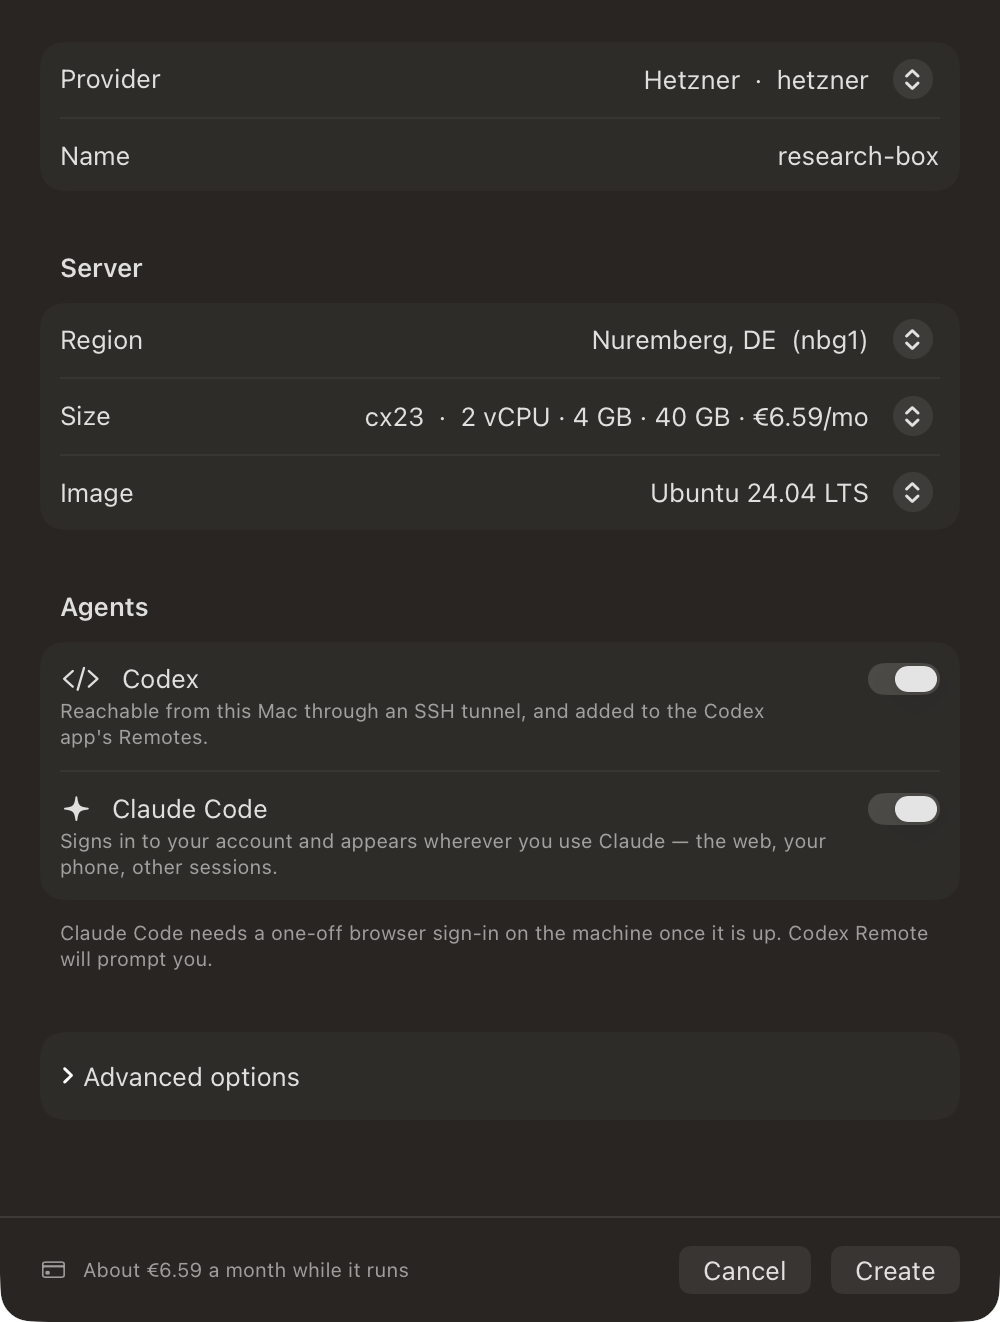
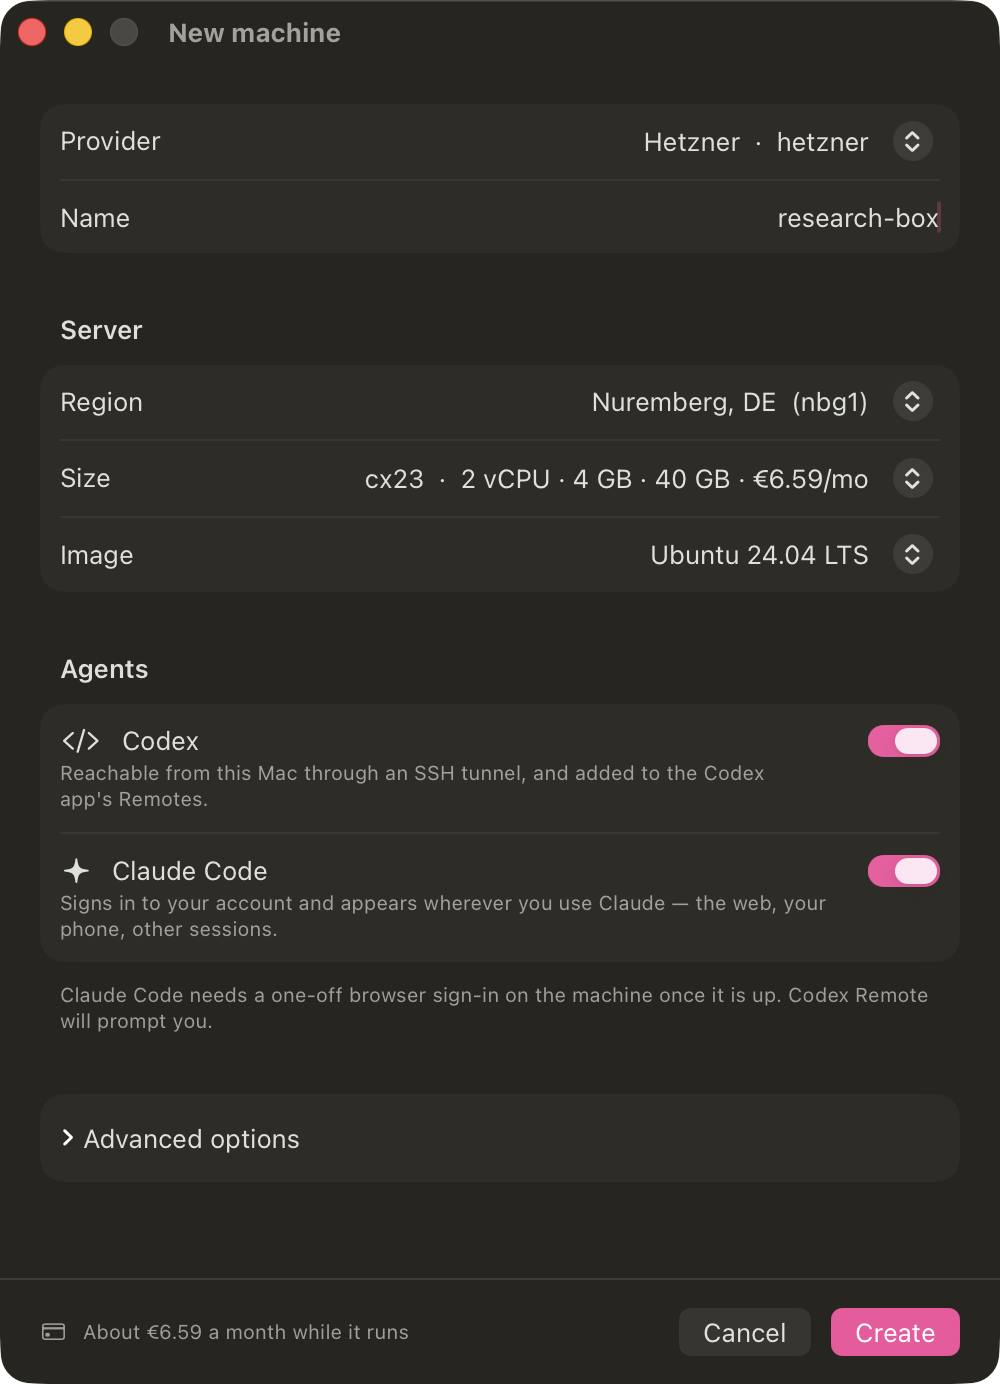
Refresh README and site app screenshots

diff --git a/site/index.html b/site/index.html
@@ -372,7 +372,7 @@ figcaption b { font-weight: 600; color: var(--ink); }
     </div>
 
     <figure>
-      <img src="img/01-panel.png" width="768" height="434"
+      <img src="img/01-panel.png?v=76c1b42d" width="768" height="434"
            alt="Codex Remote with two sample machines: build-eu on Hetzner is paused; project-west on AWS has two running sessions. The panel shows health, CPU, memory, power controls, and an Open button.">
       <figcaption>
         <b>Figure 1.</b> Every machine in one list, whichever cloud it is on. Status shows
@@ -491,7 +491,7 @@ figcaption b { font-weight: 600; color: var(--ink); }
 
       <div class="plates">
         <figure>
-          <img src="img/03-new-machine.png" width="1000" height="1322"
+          <img src="img/03-new-machine.png?v=caae9532" width="1000" height="1384"
                alt="The New machine window with the sample name research-box. Hetzner, Nuremberg, a two-vCPU server at 6.59 euro a month, and Ubuntu 24.04 LTS are selected. Codex and Claude Code are enabled; Advanced options are collapsed.">
           <figcaption>
             <b>Figure 2.</b> Pick a cloud, a size and which agents you want. The estimated
@@ -500,7 +500,7 @@ figcaption b { font-weight: 600; color: var(--ink); }
         </figure>
 
         <figure>
-          <img src="img/02-expanded.png" width="768" height="726"
+          <img src="img/02-expanded.png?v=e687b119" width="768" height="726"
                alt="An expanded sample machine row for project-west on AWS, listing its endpoint, SSH alias, address, workspace, server type and Codex version, with buttons to open it in Codex or Claude.">
           <figcaption>
             <b>Figure 3.</b> Everything you would otherwise keep in a note: the SSH alias,
@@ -509,7 +509,7 @@ figcaption b { font-weight: 600; color: var(--ink); }
         </figure>
 
         <figure>
-          <img src="img/04-settings.png" width="1160" height="1096"
+          <img src="img/04-settings.png?v=69d38fc4" width="1160" height="1096"
                alt="The Providers settings pane with sample Hetzner and AWS accounts, one machine each, an Add account button, and the registry URL field.">
           <figcaption>
             <b>Figure 4.</b> Tokens go to your login keychain, never to a file or to
@@ -519,7 +519,7 @@ figcaption b { font-weight: 600; color: var(--ink); }
         </figure>
 
         <figure>
-          <img src="img/05-empty-state.png" width="768" height="860"
+          <img src="img/05-empty-state.png?v=62ec2286" width="768" height="860"
                alt="The first-run panel shows the app icon, a Connect provider button, the steps to create a machine, and a Copy setup prompt button for an agent to guide setup.">
           <figcaption>
             <b>Figure 5.</b> Start in the app, or copy a prompt into Codex or Claude and let

diff --git a/Sources/CodexRemoteApp/CodexRemoteApp.swift b/Sources/CodexRemoteApp/CodexRemoteApp.swift
@@ -142,8 +142,10 @@ private struct MenuBarLabel: View {
             PanelWindow.shared.open = { openWindow(id: CodexRemoteApp.panelWindowID) }
             if ScreenshotFixtures.mode == "new-machine" {
                 openWindow(id: CodexRemoteApp.newMachineWindowID)
+                NSApp.activate(ignoringOtherApps: true)
             } else if ScreenshotFixtures.mode == "settings" {
                 openSettings()
+                NSApp.activate(ignoringOtherApps: true)
             }
         }
     }

diff --git a/README.md b/README.md
@@ -11,6 +11,8 @@ macOS 15+, Apple silicon or Intel. It lives in the menu bar, not the Dock.
 
 [codexremote.io](https://codexremote.io) · not affiliated with OpenAI or Anthropic.
 
+![Codex Remote showing build-eu paused on Hetzner and project-west running two sessions on AWS, with power controls and a New machine button.](site/img/01-panel.png)
+
 Give it a cloud provider token. It creates a server with **OpenTofu**, installs **Codex**,
 **Claude Code**, or both on it, and wires each one up the way it expects to be reached.
 They are reached in opposite directions: the Codex app SSHes out to the machine and starts
@@ -55,9 +57,21 @@ Point Codex Remote at your own registry for your own providers, including a home
 OpenTofu ships inside the app — there is nothing to install — and it is why the provider
 list is a list of data files rather than a list of hand-written API clients.
 
-![The Codex Remote window: build-eu on Hetzner is paused, while project-west on AWS is running two sessions. Power controls, Open, and New machine are visible.](site/img/01-panel.png)
+## App screenshots
 
-![The New machine window: provider, region, size with its monthly price, image, and a toggle for each agent.](site/img/03-new-machine.png)
+**First run:** connect a provider or copy a setup prompt for your agent.
+
+<img src="site/img/05-empty-state.png" alt="First-run window with Connect provider and Copy setup prompt buttons" width="384">
+
+**New machine:** choose a provider, region, size, image, and agents before creating a server.
+
+<img src="site/img/03-new-machine.png" alt="New machine window showing Hetzner server options and enabled Codex and Claude Code switches" width="500">
+
+**Providers:** manage cloud accounts and the provider registry in Settings.
+
+<img src="site/img/04-settings.png" alt="Providers settings with sample Hetzner and AWS accounts and a registry URL" width="580">
+
+[See all five app screenshots on the website.](https://codexremote.io/#s3b)
 
 ## What happens when you add a machine
 

diff --git a/site/img/README.md b/site/img/README.md
@@ -4,9 +4,9 @@ The five numbered PNGs were captured from the debug build of Codex Remote on
 macOS 26.6.2 on 2026-09-28. `CODEX_REMOTE_SCREENSHOT_MODE` supplies local,
 illustrative provider and machine state through `ScreenshotFixtures.swift`;
 the windows are the app's real SwiftUI views. No provider credentials, machines,
-or network requests were used. The panel, expanded, and first-run captures show
-the native title bar and toolbar. The New machine capture was cropped at the
-title bar; the Providers window retains its native title bar and toolbar.
+or network requests were used. The captures retain the native window chrome;
+the New machine and Providers windows were activated before capture so their
+controls show their normal enabled appearance.
 
 `app-icon.png` is the 512-pixel export from `Scripts/make-icon.swift`. The same
 generator builds `CodexRemote.icns`, which `Scripts/bundle.sh` installs in the
